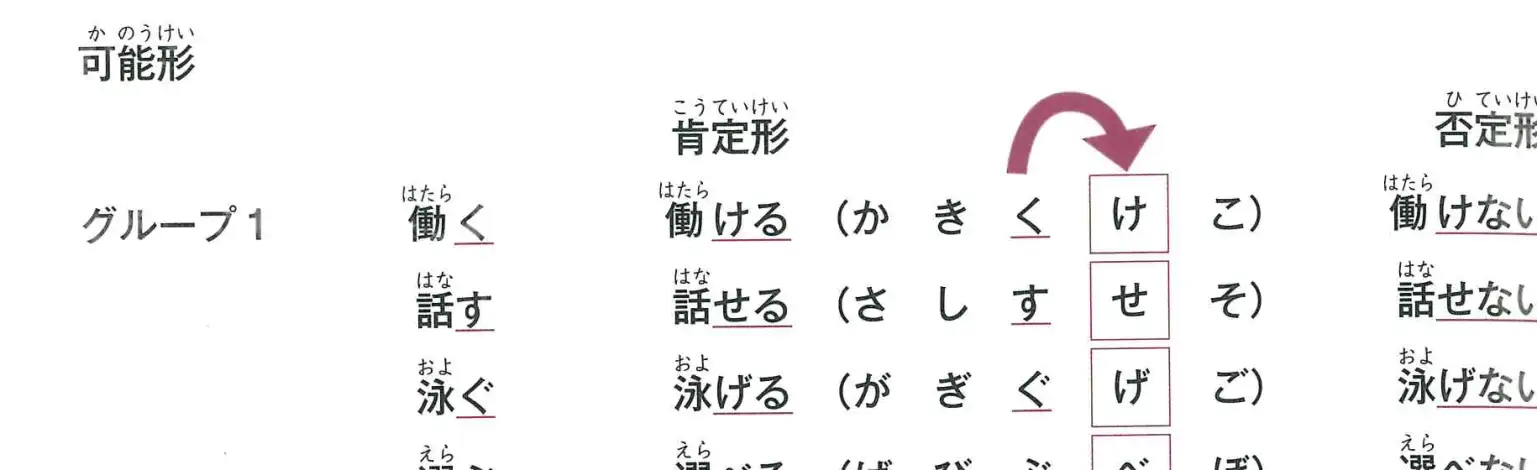
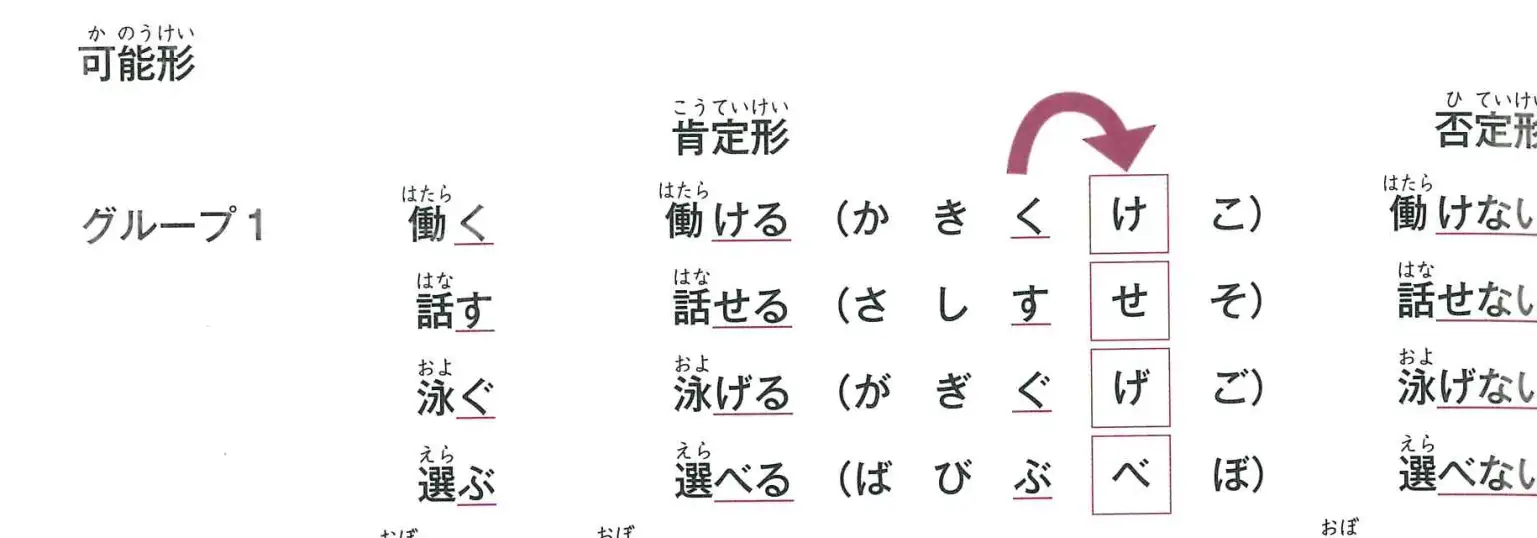
Fix 第17課 文型1 グループ1 textbook crop so the 選ぶ row is not clipped

diff --git a/blk.js b/blk.js
@@ -1,2 +1,2 @@
 // 文型各例句區塊的課本截圖（pages/blk/*.webp）：{文型: [[該區塊第一句的索引, [[檔名,寬,高,頁]...]], ...]}
-window.BLK={"1-1":[[0,[["blk/b1-1-0.webp",1264,176,24]]],[1,[["blk/b1-1-1.webp",424,89,24]]],[2,[["blk/b1-1-2.webp",506,90,24]]],[3,[["blk/b1-1-3.webp",549,90,24]]],[4,[["blk/b1-1-4.webp",676,90,24]]]],"1-2":[[0,[["blk/b1-2-0.webp",1372,466,25]]],[4,[["blk/b1-2-1.webp",1359,269,25]]],[6,[["blk/b1-2-2.webp",1361,328,25]]],[8,[["blk/b1-2-3.webp",1360,370,25]]]],"1-3":[[0,[["blk/b1-3-0.webp",1303,169,26]]],[1,[["blk/b1-3-1.webp",629,89,26]]],[2,[["blk/b1-3-2.webp",718,90,26]]],[3,[["blk/b1-3-3.webp",806,164,26]]]],"1-4":[[0,[["blk/b1-4-0.webp",1280,469,27]]],[4,[["blk/b1-4-1.webp",628,161,27]]],[6,[["blk/b1-4-2.webp",716,161,27]]],[8,[["blk/b1-4-3.webp",975,91,27]]],[9,[["blk/b1-4-4.webp",845,89,27]]]],"1-5":[[0,[["blk/b1-5-0.webp",1296,246,29]]],[2,[["blk/b1-5-1.webp",590,160,29]]],[4,[["blk/b1-5-2.webp",764,162,29]]],[6,[["blk/b1-5-3.webp",675,309,29]]]],"1-6":[[0,[["blk/b1-6-0.webp",1281,251,29]]],[2,[["blk/b1-6-1.webp",840,89,29]]],[3,[["blk/b1-6-2.webp",922,90,29]]],[4,[["blk/b1-6-3.webp",760,70,29]]]],"2-1":[[0,[["blk/b2-1-0.webp",1284,630,33]]],[2,[["blk/b2-1-1.webp",504,86,33]]],[3,[["blk/b2-1-2.webp",604,85,33]]],[4,[["blk/b2-1-3.webp",425,86,33]]],[5,[["blk/b2-1-4.webp",425,87,33]]],[6,[["blk/b2-1-5.webp",381,86,33]]],[7,[["blk/b2-1-6.webp",424,88,33]]],[8,[["blk/b2-1-7.webp",424,70,33]]],[9,[["blk/b2-1-8.webp",1119,352,33]]],[11,[["blk/b2-1-9.webp",1286,509,33]]]],"2-2":[[0,[["blk/b2-2-0.webp",1303,670,34]]],[3,[["blk/b2-2-0.webp",1303,670,34]]],[7,[["blk/b2-2-1.webp",798,162,34]]]],"2-3":[[0,[["blk/b2-3-0.webp",1294,569,34]]],[2,[["blk/b2-3-1.webp",417,86,34]]],[3,[["blk/b2-3-2.webp",423,88,34]]],[4,[["blk/b2-3-3.webp",908,398,34]]],[5,[["blk/b2-3-4.webp",1136,404,34]]]],"2-4":[[0,[["blk/b2-4-0.webp",1283,471,35]]],[2,[["blk/b2-4-1.webp",504,87,35]]],[3,[["blk/b2-4-2.webp",508,89,35]]],[4,[["blk/b2-4-3.webp",760,163,35]]]],"2-5":[[0,[["blk/b2-5-0.webp",1249,648,35]]],[4,[["blk/b2-5-1.webp",544,89,35]]],[5,[["blk/b2-5-2.webp",596,89,35]]],[6,[["blk/b2-5-3.webp",549,160,35]]],[8,[["blk/b2-5-4.webp",634,89,35]]],[9,[["blk/b2-5-5.webp",633,161,35]]]],"2-6":[[0,[["blk/b2-6-0.webp",1161,253,40]]],[2,[["blk/b2-6-1.webp",671,88,40]]],[3,[["blk/b2-6-2.webp",804,161,40]]],[5,[["blk/b2-6-3.webp",676,163,40]]],[7,[["blk/b2-6-rd1.webp",1301,919,40]]]],"3-1":[[0,[["blk/b3-1-0.webp",1302,465,42]]],[3,[["blk/b3-1-1.webp",1284,320,42]]],[5,[["blk/b3-1-2.webp",1275,444,43]]],[7,[["blk/b3-1-3.webp",1282,432,43]]]],"3-2":[[0,[["blk/b3-2-0.webp",1234,250,43]]],[2,[["blk/b3-2-1.webp",1060,159,43]]],[4,[["blk/b3-2-2.webp",955,244,43]]],[6,[["blk/b3-2-3.webp",1040,355,43]]]],"3-3":[[0,[["blk/b3-3-0.webp",1295,330,44]]],[3,[["blk/b3-3-1.webp",1250,522,44]]],[5,[["blk/b3-3-2.webp",1266,864,44]]],[7,[["blk/b3-3-3.webp",1285,914,44]]]],"3-4":[[0,[["blk/b3-4-0.webp",1279,167,45]]],[1,[["blk/b3-4-1.webp",1290,830,45]]],[5,[["blk/b3-4-2.webp",1292,708,45]]]],"4-1":[[0,[["blk/b4-1-0.webp",1296,1042,50]]],[2,[["blk/b4-1-1.webp",416,89,50]]],[3,[["blk/b4-1-2.webp",386,89,50]]],[4,[["blk/b4-1-3.webp",1245,378,50]]],[5,[["blk/b4-1-4.webp",824,546,50]]],[7,[["blk/b4-1-ra1.webp",1302,1142,51]]]],"4-2":[[0,[["blk/b4-2-0.webp",1187,335,51]]],[3,[["blk/b4-2-1.webp",926,161,51]]],[5,[["blk/b4-2-2.webp",967,160,51]]],[7,[["blk/b4-2-rb1.webp",1300,1686,52]]],[11,[["blk/b4-2-rd1.webp",1300,886,54]]]],"4-3":[[0,[["blk/b4-3-0.webp",1297,334,53]]],[3,[["blk/b4-3-1.webp",880,309,53]]]],"4-4":[[0,[["blk/b4-4-0.webp",1230,329,55]]],[3,[["blk/b4-4-1.webp",750,163,55]]],[5,[["blk/b4-4-2.webp",716,159,55]]],[7,[["blk/b4-4-3.webp",1036,163,56]]],[9,[["blk/b4-4-4.webp",1276,361,56]]],[10,[["blk/b4-4-5.webp",1274,361,56]]]],"4-5":[[0,[["blk/b4-5-0.webp",1285,168,56]]],[1,[["blk/b4-5-1.webp",1261,339,56]]],[3,[["blk/b4-5-2.webp",1284,316,56]]]],"4-6":[[0,[["blk/b4-6-0.webp",1301,252,56]]],[2,[["blk/b4-6-1.webp",797,159,56]]],[4,[["blk/b4-6-2.webp",886,144,56]]],[6,[["blk/b4-6-re1.webp",1301,1591,57]]]],"5-1":[[0,[["blk/b5-1-0.webp",1298,252,61]]],[2,[["blk/b5-1-1.webp",501,89,61]]],[3,[["blk/b5-1-2.webp",634,89,61]]],[4,[["blk/b5-1-3.webp",509,89,61]]],[5,[["blk/b5-1-4.webp",720,161,61]]],[6,[["blk/b5-1-5.webp",802,89,61]]],[7,[["blk/b5-1-ra1.webp",1300,1508,62]]]],"5-2":[[0,[["blk/b5-2-0.webp",1301,166,61]]],[1,[["blk/b5-2-1.webp",1094,87,61]]],[2,[["blk/b5-2-2.webp",1097,89,61]]]],"5-3":[[0,[["blk/b5-3-0.webp",1301,673,63]]],[6,[["blk/b5-3-1.webp",1273,363,63]]],[8,[["blk/b5-3-2.webp",1227,344,63]]],[10,[["blk/b5-3-3.webp",1136,455,63]]]],"5-4":[[0,[["blk/b5-4-0.webp",1291,255,66]]],[2,[["blk/b5-4-1.webp",1279,421,66]]],[4,[["blk/b5-4-2.webp",1289,571,66]]],[6,[["blk/b5-4-3.webp",1264,492,66]]],[8,[["blk/b5-4-rb1.webp",1301,1479,67]]]],"6-1":[[0,[["blk/b6-1-0.webp",1299,421,72]]],[4,[["blk/b6-1-1.webp",549,87,72]]],[5,[["blk/b6-1-2.webp",675,145,72]]],[7,[["blk/b6-1-3.webp",719,161,72]]],[9,[["blk/b6-1-ra1.webp",1301,651,72]]]],"6-2":[[0,[["blk/b6-2-0.webp",1298,166,73]]],[1,[["blk/b6-2-1.webp",713,160,73]]],[3,[["blk/b6-2-2.webp",885,160,73]]]],"6-3":[[0,[["blk/b6-3-0.webp",1290,168,75]]],[1,[["blk/b6-3-1.webp",1007,235,75]]],[4,[["blk/b6-3-2.webp",928,311,75]]],[7,[["blk/b6-3-3.webp",510,89,75]]],[8,[["blk/b6-3-rc1.webp",1300,834,75]]]],"6-4":[[0,[["blk/b6-4-0.webp",1292,250,76]]],[2,[["blk/b6-4-1.webp",940,236,76]]],[5,[["blk/b6-4-2.webp",718,219,76]]],[8,[["blk/b6-4-3.webp",927,161,76]]],[10,[["blk/b6-4-rd1.webp",1300,880,76]]]],"6-5":[[0,[["blk/b6-5-0.webp",1292,461,77]]],[1,[["blk/b6-5-1.webp",1176,160,77]]],[3,[["blk/b6-5-2.webp",926,231,77]]],[5,[["blk/b6-5-3.webp",968,160,77]]],[7,[["blk/b6-5-4.webp",1099,161,77]]],[9,[["blk/b6-5-5.webp",1180,161,77]]],[11,[["blk/b6-5-6.webp",1054,161,77]]]],"6-6":[[0,[["blk/b6-6-0.webp",1248,1264,81]]],[5,[["blk/b6-6-0.webp",1248,1264,81]]],[10,[["blk/b6-6-0.webp",1248,1264,81]]]],"6-7":[[0,[["blk/b6-7-0.webp",1194,170,81]]],[1,[["blk/b6-7-1.webp",922,166,81]]],[3,[["blk/b6-7-2.webp",1273,235,81]]],[6,[["blk/b6-7-3.webp",1135,963,82]]],[9,[["blk/b6-7-rf1.webp",1299,869,82]]]],"7-1":[[0,[["blk/b7-1-0.webp",1303,1066,85]]],[6,[["blk/b7-1-1.webp",712,87,85]]],[7,[["blk/b7-1-2.webp",716,164,85]]],[9,[["blk/b7-1-3.webp",675,89,85]]],[10,[["blk/b7-1-4.webp",1300,460,85]]],[11,[["blk/b7-1-5.webp",1271,332,86]]],[13,[["blk/b7-1-6.webp",718,89,86]]],[14,[["blk/b7-1-7.webp",809,89,86]]],[15,[["blk/b7-1-8.webp",738,87,86]]],[16,[["blk/b7-1-ra1.webp",1301,985,86]]],[22,[["blk/b7-1-rb1.webp",1300,768,87]]]],"7-2":[[0,[["blk/b7-2-0.webp",1294,166,87]]],[1,[["blk/b7-2-1.webp",1090,161,87]]],[3,[["blk/b7-2-2.webp",718,306,87]]]],"7-3":[[0,[["blk/b7-3-0.webp",1294,167,88]]],[1,[["blk/b7-3-1.webp",1292,90,88]]],[2,[["blk/b7-3-2.webp",1182,145,88]]],[4,[["blk/b7-3-3.webp",894,87,88]]],[5,[["blk/b7-3-4.webp",1097,87,88]]],[6,[["blk/b7-3-rc1.webp",1300,1204,88]]]],"7-4":[[0,[["blk/b7-4-0.webp",1298,572,90]]],[3,[["blk/b7-4-1.webp",1009,236,90]]],[6,[["blk/b7-4-2.webp",810,235,90]]],[9,[["blk/b7-4-3.webp",851,91,90]]],[10,[["blk/b7-4-4.webp",846,91,90]]]],"7-5":[[0,[["blk/b7-5-0.webp",1381,166,93]]],[1,[["blk/b7-5-1.webp",758,92,93]]],[2,[["blk/b7-5-2.webp",801,308,93]]]],"7-6":[[0,[["blk/b7-6-0.webp",1300,951,94]]],[4,[["blk/b7-6-0.webp",1300,951,94]]],[5,[["blk/b7-6-1.webp",1264,341,94]]],[6,[["blk/b7-6-2.webp",1269,336,94]]],[7,[["blk/b7-6-3.webp",846,90,94]]],[8,[["blk/b7-6-4.webp",1061,559,94]]]],"8-1":[[0,[["blk/b8-1-0.webp",1300,250,96]]],[2,[["blk/b8-1-1.webp",991,207,96]]],[5,[["blk/b8-1-2.webp",649,144,96]]],[7,[["blk/b8-1-3.webp",794,340,96]]],[12,[["blk/b8-1-4.webp",581,275,96]]]],"8-2":[[0,[["blk/b8-2-0.webp",1301,336,96]]],[3,[["blk/b8-2-1.webp",747,275,96]]],[7,[["blk/b8-2-ra1.webp",1299,1910,98]]]],"8-3":[[0,[["blk/b8-3-0.webp",1216,241,97]]],[2,[["blk/b8-3-1.webp",576,128,97]]],[4,[["blk/b8-3-2.webp",849,144,97]]]],"8-4":[[0,[["blk/b8-4-0.webp",1375,802,97]]],[2,[["blk/b8-4-1.webp",1380,517,97]]],[4,[["blk/b8-4-2.webp",1380,517,97]]]],"8-5":[[0,[["blk/b8-5-0.webp",1298,271,100]]],[2,[["blk/b8-5-1.webp",1128,90,100]]],[3,[["blk/b8-5-2.webp",1289,241,100]]],[4,[["blk/b8-5-3.webp",1289,254,100]]],[5,[["blk/b8-5-4.webp",919,80,100]]],[6,[["blk/b8-5-5.webp",864,209,100]]],[9,[["blk/b8-5-rb1.webp",1299,1044,100]]]],"8-6":[[0,[["blk/b8-6-0.webp",1286,485,101]]],[1,[["blk/b8-6-1.webp",981,146,101]]],[3,[["blk/b8-6-2.webp",1188,145,101]]],[5,[["blk/b8-6-3.webp",816,144,101]]],[7,[["blk/b8-6-4.webp",816,144,101]]],[9,[["blk/b8-6-5.webp",984,143,101]]]],"8-7":[[0,[["blk/b8-7-0.webp",1300,308,104]]],[2,[["blk/b8-7-1.webp",1287,80,104]]],[3,[["blk/b8-7-2.webp",514,80,104]]],[4,[["blk/b8-7-3.webp",952,274,104]]],[7,[["blk/b8-7-4.webp",1289,296,104]]],[10,[["blk/b8-7-5.webp",751,145,104]]],[12,[["blk/b8-7-rd1.webp",1300,524,104],["blk/b8-7-rd2.webp",1125,409,105]]]],"8-8":[[0,[["blk/b8-8-0.webp",1330,465,105]]],[1,[["blk/b8-8-1.webp",1380,384,105]]],[5,[["blk/b8-8-2.webp",944,275,105]]],[9,[["blk/b8-8-3.webp",1091,145,105]]],[11,[["blk/b8-8-4.webp",1091,146,105]]],[13,[["blk/b8-8-5.webp",936,146,105]]]],"9-1":[[0,[["blk/b9-1-0.webp",1179,1895,107]]],[5,[["blk/b9-1-0.webp",1179,1895,107]]],[6,[["blk/b9-1-0.webp",1179,1895,107]]]],"9-2":[[0,[["blk/b9-2-0.webp",1296,166,108]]],[1,[["blk/b9-2-1.webp",793,81,108]]],[2,[["blk/b9-2-2.webp",965,144,108]]],[4,[["blk/b9-2-3.webp",885,81,108]]],[5,[["blk/b9-2-4.webp",785,144,108]]],[7,[["blk/b9-2-ra1.webp",1299,1246,108]]]],"9-3":[[0,[["blk/b9-3-0.webp",1329,164,109]]],[1,[["blk/b9-3-1.webp",845,84,109]]],[2,[["blk/b9-3-2.webp",1372,300,109]]],[3,[["blk/b9-3-3.webp",1372,303,109]]],[4,[["blk/b9-3-rb1.webp",1379,1350,109]]]],"9-4":[[0,[["blk/b9-4-0.webp",1300,166,110]]],[1,[["blk/b9-4-1.webp",746,210,110]]],[3,[["blk/b9-4-2.webp",918,145,110]]],[5,[["blk/b9-4-3.webp",930,254,110]]],[7,[["blk/b9-4-4.webp",1291,343,110]]],[9,[["blk/b9-4-rc1.webp",1299,1104,110]]]],"9-5":[[0,[["blk/b9-5-0.webp",1303,389,112]]],[3,[["blk/b9-5-1.webp",781,81,112]]],[4,[["blk/b9-5-2.webp",829,80,112]]],[5,[["blk/b9-5-3.webp",852,79,112]]]],"9-6":[[0,[["blk/b9-6-0.webp",1291,164,113]]],[1,[["blk/b9-6-1.webp",958,81,113]]],[2,[["blk/b9-6-2.webp",986,81,113]]],[3,[["blk/b9-6-3.webp",681,144,113]]],[5,[["blk/b9-6-re1.webp",1368,1430,113]]],[6,[["blk/b9-6-rg1.webp",1381,1239,115]]]],"9-7":[[0,[["blk/b9-7-0.webp",1380,165,115]]],[1,[["blk/b9-7-1.webp",1032,281,115]]],[3,[["blk/b9-7-2.webp",1375,276,115]]]],"9-8":[[0,[["blk/b9-8-0.webp",1301,164,118]]],[1,[["blk/b9-8-1.webp",1040,211,118]]],[2,[["blk/b9-8-2.webp",964,145,118]]],[4,[["blk/b9-8-3.webp",947,82,118]]]],"9-9":[[0,[["blk/b9-9-0.webp",1301,994,118]]],[9,[["blk/b9-9-1.webp",644,145,118]]],[11,[["blk/b9-9-2.webp",1179,331,119]]],[13,[["blk/b9-9-3.webp",1179,301,119]]],[15,[["blk/b9-9-ri1.webp",1300,834,119]]]],"10-1":[[0,[["blk/b10-1-0.webp",1384,945,121]]],[6,[["blk/b10-1-1.webp",708,144,121]]],[8,[["blk/b10-1-2.webp",1372,746,121]]],[11,[["blk/b10-1-ra1.webp",1306,1258,122]]]],"10-2":[[0,[["blk/b10-2-0.webp",1298,162,125]]],[1,[["blk/b10-2-1.webp",730,127,125]]],[3,[["blk/b10-2-2.webp",1011,144,125]]],[5,[["blk/b10-2-rc1.webp",1378,1280,125]]]],"10-3":[[0,[["blk/b10-3-0.webp",1301,323,126]]],[2,[["blk/b10-3-1.webp",1212,243,126]]],[3,[["blk/b10-3-2.webp",736,107,126]]],[4,[["blk/b10-3-3.webp",1235,276,126]]],[6,[["blk/b10-3-4.webp",1234,306,126]]],[8,[["blk/b10-3-rd1.webp",1299,800,126]]]],"11-1":[[0,[["blk/b11-1-0.webp",1301,164,130]]],[1,[["blk/b11-1-1.webp",509,80,130]]],[2,[["blk/b11-1-2.webp",547,80,130]]],[3,[["blk/b11-1-3.webp",412,80,130]]],[4,[["blk/b11-1-4.webp",609,81,130]]],[5,[["blk/b11-1-5.webp",1109,145,130]]],[7,[["blk/b11-1-6.webp",854,142,130]]],[9,[["blk/b11-1-7.webp",471,83,130]]],[10,[["blk/b11-1-ra1.webp",1300,812,130]]]],"11-2":[[0,[["blk/b11-2-0.webp",1228,166,131]]],[1,[["blk/b11-2-1.webp",856,81,131]]],[2,[["blk/b11-2-2.webp",1032,211,131]]]],"11-3":[[0,[["blk/b11-3-0.webp",1326,304,131]]],[2,[["blk/b11-3-1.webp",762,81,131]]],[3,[["blk/b11-3-2.webp",896,270,131]]],[7,[["blk/b11-3-3.webp",772,84,131]]]],"11-4":[[0,[["blk/b11-4-0.webp",1396,166,133]]],[1,[["blk/b11-4-1.webp",806,81,133]]],[2,[["blk/b11-4-2.webp",693,145,133]]],[4,[["blk/b11-4-3.webp",699,81,133]]],[5,[["blk/b11-4-4.webp",659,145,133]]],[7,[["blk/b11-4-5.webp",525,82,133]]]],"11-5":[[0,[["blk/b11-5-0.webp",1356,163,133]]],[1,[["blk/b11-5-1.webp",828,145,133]]],[3,[["blk/b11-5-2.webp",759,210,133]]],[6,[["blk/b11-5-3.webp",940,80,133]]],[7,[["blk/b11-5-4.webp",704,84,133]]]],"11-6":[[0,[["blk/b11-6-0.webp",994,302,135]]],[2,[["blk/b11-6-1.webp",680,81,135]]],[3,[["blk/b11-6-2.webp",660,80,135]]],[4,[["blk/b11-6-3.webp",1020,271,135]]],[6,[["blk/b11-6-4.webp",719,84,135]]]],"11-7":[[0,[["blk/b11-7-0.webp",1304,334,136]]],[3,[["blk/b11-7-1.webp",590,144,136]]],[5,[["blk/b11-7-2.webp",682,145,136]]],[7,[["blk/b11-7-3.webp",615,144,136]]],[9,[["blk/b11-7-rc1.webp",1301,981,136]]]],"12-1":[[0,[["blk/b12-1-0.webp",1296,167,140]]],[1,[["blk/b12-1-1.webp",713,144,140]]],[3,[["blk/b12-1-2.webp",852,84,140]]],[4,[["blk/b12-1-3.webp",1285,414,140]]]],"12-2":[[0,[["blk/b12-2-0.webp",1288,460,140]]],[3,[["blk/b12-2-1.webp",447,81,140]]],[4,[["blk/b12-2-2.webp",480,79,140]]],[5,[["blk/b12-2-3.webp",1285,546,140]]]],"12-3":[[0,[["blk/b12-3-0.webp",1386,1145,141]]],[4,[["blk/b12-3-0.webp",1386,1145,141]]],[8,[["blk/b12-3-0.webp",1386,1145,141]]],[10,[["blk/b12-3-1.webp",1292,935,141]]]],"12-4":[[0,[["blk/b12-4-0.webp",1297,439,144]]],[2,[["blk/b12-4-1.webp",1114,373,144]]],[4,[["blk/b12-4-2.webp",1119,373,144]]],[6,[["blk/b12-4-3.webp",581,145,144]]],[7,[["blk/b12-4-4.webp",1194,229,144]]],[8,[["blk/b12-4-rb1.webp",1301,905,144]]],[9,[["blk/b12-4-rc1.webp",1301,924,145]]]],"12-5":[[0,[["blk/b12-5-0.webp",1000,166,145]]],[1,[["blk/b12-5-1.webp",747,80,145]]],[2,[["blk/b12-5-2.webp",716,81,145]]],[3,[["blk/b12-5-3.webp",1280,544,145]]]],"13-1":[[0,[["blk/b13-1-0.webp",1512,496,149]]],[1,[["blk/b13-1-1.webp",1512,235,149]]],[3,[["blk/b13-1-3.webp",1512,185,149]]],[5,[["blk/b13-1-5.webp",1512,84,149]]],[6,[["blk/b13-1-6.webp",1512,882,149]]]],"13-2":[[0,[["blk/b13-2-0.webp",1537,487,150]]],[3,[["blk/b13-2-3_0.webp",1537,218,150],["blk/b13-2-3_1.webp",1537,319,150]]],[7,[["blk/b13-2-7_0.webp",1537,218,150],["blk/b13-2-7_1.webp",1537,185,150]]],[9,[["blk/b13-2-9.webp",1537,260,150]]]],"13-3":[[0,[["blk/b13-3-0.webp",1512,134,151]]],[1,[["blk/b13-3-1.webp",1512,176,151]]],[3,[["blk/b13-3-3.webp",1512,151,151]]],[5,[["blk/b13-3-5.webp",1512,151,151]]],[7,[["blk/b13-3-7.webp",1512,160,151]]],[9,[["blk/b13-3-9.webp",1512,76,151]]],[10,[["blk/b13-3-10.webp",1512,151,151]]],[12,[["blk/b13-3-12.webp",1512,613,151]]]],"13-4":[[0,[["blk/b13-4-0.webp",1537,403,152]]],[2,[["blk/b13-4-2.webp",1537,235,152]]],[5,[["blk/b13-4-5.webp",1537,227,152]]],[8,[["blk/b13-4-8.webp",1537,328,152]]],[12,[["blk/b13-4-12.webp",1537,739,152]]]],"13-5":[[0,[["blk/b13-5-0.webp",1537,445,154]]],[2,[["blk/b13-5-2.webp",1537,101,154]]],[3,[["blk/b13-5-3.webp",1537,76,154]]],[4,[["blk/b13-5-4.webp",1537,84,154]]],[5,[["blk/b13-5-5.webp",1537,76,154]]],[6,[["blk/b13-5-6.webp",1537,134,154]]]],"13-6":[[0,[["blk/b13-6-0.webp",1537,487,154]]],[2,[["blk/b13-6-2.webp",1537,92,154]]],[3,[["blk/b13-6-3.webp",1537,160,154]]],[5,[["blk/b13-6-5.webp",1537,336,154]]],[9,[["blk/b13-6-9.webp",1512,1117,155]]]],"14-1":[[0,[["blk/b14-1-0.webp",1512,714,159]]],[4,[["blk/b14-1-4.webp",1512,193,159]]],[6,[["blk/b14-1-6.webp",1512,193,159]]],[8,[["blk/b14-1-8.webp",1512,302,159]]],[10,[["blk/b14-1-10.webp",1512,302,159]]],[12,[["blk/b14-1-12.webp",1512,185,159]]]],"14-2":[[0,[["blk/b14-2-0.webp",1537,420,160]]],[1,[["blk/b14-2-1.webp",1537,101,160]]],[2,[["blk/b14-2-2.webp",1537,176,160]]],[4,[["blk/b14-2-4.webp",1537,202,160]]],[7,[["blk/b14-2-7.webp",1537,143,160]]],[9,[["blk/b14-2-9.webp",1537,84,160]]],[10,[["blk/b14-2-10.webp",1537,101,160]]],[11,[["blk/b14-2-11.webp",1537,722,160]]],[13,[["blk/b14-2-13.webp",1512,622,161]]]],"14-3":[[0,[["blk/b14-3-0.webp",1537,386,162]]],[1,[["blk/b14-3-1.webp",1537,269,162]]],[3,[["blk/b14-3-3.webp",1537,168,162]]],[5,[["blk/b14-3-5.webp",1537,823,162]]]],"14-4":[[0,[["blk/b14-4-0.webp",1537,151,164]]],[1,[["blk/b14-4-1.webp",1537,210,164]]],[3,[["blk/b14-4-3.webp",1537,151,164]]],[5,[["blk/b14-4-5.webp",1537,302,164]]],[6,[["blk/b14-4-6.webp",1537,588,164]]],[8,[["blk/b14-4-8.webp",1512,613,165]]]],"15-1":[[0,[["blk/b15-1-0.webp",1537,302,166]]],[2,[["blk/b15-1-2.webp",1537,286,166]]],[4,[["blk/b15-1-4.webp",1512,202,167]]],[6,[["blk/b15-1-6.webp",1512,437,167]]],[10,[["blk/b15-1-10.webp",1512,252,167]]]],"15-2":[[0,[["blk/b15-2-0.webp",1512,252,167]]],[2,[["blk/b15-2-2.webp",1512,185,167]]],[4,[["blk/b15-2-4.webp",1512,235,167]]],[6,[["blk/b15-2-6.webp",1512,185,167]]],[8,[["blk/b15-2-8.webp",1512,353,167]]],[10,[["blk/b15-2-10.webp",1537,1193,168]]]],"15-3":[[0,[["blk/b15-3-0.webp",1537,302,170]]],[2,[["blk/b15-3-2.webp",1537,168,170]]],[4,[["blk/b15-3-4.webp",1537,319,170]]]],"15-4":[[0,[["blk/b15-4-0.webp",1512,235,171]]],[1,[["blk/b15-4-1.webp",1512,168,171]]],[3,[["blk/b15-4-3.webp",1512,160,171]]],[5,[["blk/b15-4-5.webp",1512,118,171]]]],"15-5":[[0,[["blk/b15-5-0.webp",1537,302,172]]],[2,[["blk/b15-5-2.webp",1537,185,172]]],[4,[["blk/b15-5-4.webp",1537,202,172]]],[6,[["blk/b15-5-6.webp",1537,168,172]]],[8,[["blk/b15-5-8.webp",1537,269,172]]],[11,[["blk/b15-5-11.webp",1537,168,172]]],[13,[["blk/b15-5-13.webp",1537,168,172]]],[14,[["blk/b15-5-14.webp",1512,1193,173]]]],"15-6":[[0,[["blk/b15-6-0.webp",1537,218,176]]],[1,[["blk/b15-6-1.webp",1537,101,176]]],[2,[["blk/b15-6-2.webp",1537,252,176]]],[4,[["blk/b15-6-4.webp",1512,454,177]]],[7,[["blk/b15-6-7.webp",1512,529,177]]]],"15-7":[[0,[["blk/b15-7-0.webp",1512,202,177]]],[1,[["blk/b15-7-1.webp",1512,218,177]]],[2,[["blk/b15-7-2.webp",1512,168,177]]],[4,[["blk/b15-7-4.webp",1512,168,177]]]],"15-8":[[0,[["blk/b15-8-0.webp",1537,252,178]]],[1,[["blk/b15-8-1.webp",1537,193,178]]],[2,[["blk/b15-8-2.webp",1537,168,178]]],[4,[["blk/b15-8-4.webp",1537,437,178]]],[5,[["blk/b15-8-5.webp",1537,1075,178]]]],"16-1":[[0,[["blk/b16-1-0.webp",1537,538,180]]],[1,[["blk/b16-1-1.webp",1537,277,180]]],[3,[["blk/b16-1-3.webp",1537,269,180]]],[5,[["blk/b16-1-5.webp",1537,286,180]]],[7,[["blk/b16-1-7.webp",1537,269,180]]],[9,[["blk/b16-1-9.webp",1537,260,180]]],[11,[["blk/b16-1-11.webp",1537,353,180]]],[14,[["blk/b16-1-14.webp",1512,773,181]]],[16,[["blk/b16-1-16.webp",1537,689,182]]]],"16-2":[[0,[["blk/b16-2-0.webp",1537,403,182]]],[3,[["blk/b16-2-3.webp",1537,286,182]]],[5,[["blk/b16-2-5.webp",1512,235,183]]],[7,[["blk/b16-2-7.webp",1512,454,183]]],[11,[["blk/b16-2-11.webp",1512,655,183]]]],"16-3":[[0,[["blk/b16-3-0.webp",1512,588,185]]],[1,[["blk/b16-3-1.webp",1512,151,185]]],[2,[["blk/b16-3-2.webp",1512,168,185]]],[4,[["blk/b16-3-4.webp",1512,588,185]]],[10,[["blk/b16-3-10.webp",1512,202,185]]],[12,[["blk/b16-3-12.webp",1512,554,185]]]],"16-4":[[0,[["blk/b16-4-0.webp",1537,269,186]]],[1,[["blk/b16-4-1.webp",1537,252,186]]],[3,[["blk/b16-4-3.webp",1537,319,186]]],[4,[["blk/b16-4-4.webp",1537,151,186]]],[5,[["blk/b16-4-5.webp",1537,319,186]]]],"16-5":[[0,[["blk/b16-5-0.webp",1537,252,186]]],[1,[["blk/b16-5-1.webp",1537,185,186]]],[3,[["blk/b16-5-3.webp",1537,302,186]]],[6,[["blk/b16-5-6.webp",1537,269,186]]]],"16-6":[[0,[["blk/b16-6-0.webp",1537,504,188]]],[1,[["blk/b16-6-1.webp",1537,101,188]]],[2,[["blk/b16-6-2.webp",1537,151,188]]],[4,[["blk/b16-6-4.webp",1537,286,188]]],[8,[["blk/b16-6-8.webp",1537,168,188]]],[10,[["blk/b16-6-10.webp",1537,168,188]]]],"16-7":[[0,[["blk/b16-7-0.webp",1537,353,188]]],[2,[["blk/b16-7-2.webp",1537,151,188]]],[3,[["blk/b16-7-3.webp",1537,202,188]]],[4,[["blk/b16-7-4.webp",1537,235,188]]]],"16-a":[[0,[["blk/b16-a-0.webp",1512,2386,189]]]],"16-b":[[0,[["blk/b16-b-0.webp",1537,2386,190]]]],"16-c":[[0,[["blk/b16-c-0.webp",1512,2386,191]]]],"17-1":[[0,[["blk/b17-1-0.webp",1537,235,194]]],[1,[["blk/b17-1-1.webp",1537,470,194]]],[5,[["blk/b17-1-5.webp",1537,202,194]]],[7,[["blk/b17-1-7.webp",1537,202,194]]],[9,[["blk/b17-1-9.webp",1537,134,194]]],[10,[["blk/b17-1-10.webp",1537,168,194]]],[12,[["blk/b17-1-12.webp",1537,202,194]]],[14,[["blk/b17-1-14.webp",1537,134,194]]],[16,[["blk/b17-1-16.webp",1537,202,194]]],[18,[["blk/b17-1-18.webp",1512,336,195]]],[20,[["blk/b17-1-20.webp",1512,101,195]]],[21,[["blk/b17-1-21.webp",1512,202,195]]],[23,[["blk/b17-1-23.webp",1512,370,195]]]],"17-2":[[0,[["blk/b17-2-0.webp",1537,202,196]]],[1,[["blk/b17-2-1.webp",1537,302,196]]],[2,[["blk/b17-2-2.webp",1537,470,196]]],[3,[["blk/b17-2-3.webp",1537,1008,196]]],[4,[["blk/b17-2-4.webp",1537,269,196]]],[6,[["blk/b17-2-6.webp",1512,571,197]]],[7,[["blk/b17-2-7.webp",1512,739,197]]],[8,[["blk/b17-2-8.webp",1512,235,197]]]],"17-3":[[0,[["blk/b17-3-0.webp",1512,403,199]]],[3,[["blk/b17-3-3.webp",1512,202,199]]],[5,[["blk/b17-3-5.webp",1512,168,199]]],[7,[["blk/b17-3-7.webp",1512,134,199]]],[8,[["blk/b17-3-8.webp",1512,437,199]]],[11,[["blk/b17-3-11.webp",1537,1142,200]]]],"17-4":[[0,[["blk/b17-4-0.webp",1537,235,200]]],[1,[["blk/b17-4-1.webp",1537,302,200]]],[2,[["blk/b17-4-2.webp",1537,202,200]]],[4,[["blk/b17-4-4.webp",1537,84,200]]],[5,[["blk/b17-4-5.webp",1537,336,200]]]],"17-5":[[0,[["blk/b17-5-0.webp",1537,302,202]]],[2,[["blk/b17-5-2.webp",1537,202,202]]],[4,[["blk/b17-5-4.webp",1537,134,202]]],[6,[["blk/b17-5-6.webp",1537,168,202]]],[8,[["blk/b17-5-8.webp",1537,269,202]]],[11,[["blk/b17-5-11.webp",1537,235,202]]],[13,[["blk/b17-5-13.webp",1537,403,202]]],[15,[["blk/b17-5-15.webp",1512,336,203]]]],"17-6":[[0,[["blk/b17-6-0.webp",1512,302,203]]],[2,[["blk/b17-6-2.webp",1512,202,203]]],[4,[["blk/b17-6-4.webp",1512,101,203]]],[5,[["blk/b17-6-5.webp",1512,302,203]]],[6,[["blk/b17-6-6.webp",1512,403,203]]]]};
+window.BLK={"1-1":[[0,[["blk/b1-1-0.webp",1264,176,24]]],[1,[["blk/b1-1-1.webp",424,89,24]]],[2,[["blk/b1-1-2.webp",506,90,24]]],[3,[["blk/b1-1-3.webp",549,90,24]]],[4,[["blk/b1-1-4.webp",676,90,24]]]],"1-2":[[0,[["blk/b1-2-0.webp",1372,466,25]]],[4,[["blk/b1-2-1.webp",1359,269,25]]],[6,[["blk/b1-2-2.webp",1361,328,25]]],[8,[["blk/b1-2-3.webp",1360,370,25]]]],"1-3":[[0,[["blk/b1-3-0.webp",1303,169,26]]],[1,[["blk/b1-3-1.webp",629,89,26]]],[2,[["blk/b1-3-2.webp",718,90,26]]],[3,[["blk/b1-3-3.webp",806,164,26]]]],"1-4":[[0,[["blk/b1-4-0.webp",1280,469,27]]],[4,[["blk/b1-4-1.webp",628,161,27]]],[6,[["blk/b1-4-2.webp",716,161,27]]],[8,[["blk/b1-4-3.webp",975,91,27]]],[9,[["blk/b1-4-4.webp",845,89,27]]]],"1-5":[[0,[["blk/b1-5-0.webp",1296,246,29]]],[2,[["blk/b1-5-1.webp",590,160,29]]],[4,[["blk/b1-5-2.webp",764,162,29]]],[6,[["blk/b1-5-3.webp",675,309,29]]]],"1-6":[[0,[["blk/b1-6-0.webp",1281,251,29]]],[2,[["blk/b1-6-1.webp",840,89,29]]],[3,[["blk/b1-6-2.webp",922,90,29]]],[4,[["blk/b1-6-3.webp",760,70,29]]]],"2-1":[[0,[["blk/b2-1-0.webp",1284,630,33]]],[2,[["blk/b2-1-1.webp",504,86,33]]],[3,[["blk/b2-1-2.webp",604,85,33]]],[4,[["blk/b2-1-3.webp",425,86,33]]],[5,[["blk/b2-1-4.webp",425,87,33]]],[6,[["blk/b2-1-5.webp",381,86,33]]],[7,[["blk/b2-1-6.webp",424,88,33]]],[8,[["blk/b2-1-7.webp",424,70,33]]],[9,[["blk/b2-1-8.webp",1119,352,33]]],[11,[["blk/b2-1-9.webp",1286,509,33]]]],"2-2":[[0,[["blk/b2-2-0.webp",1303,670,34]]],[3,[["blk/b2-2-0.webp",1303,670,34]]],[7,[["blk/b2-2-1.webp",798,162,34]]]],"2-3":[[0,[["blk/b2-3-0.webp",1294,569,34]]],[2,[["blk/b2-3-1.webp",417,86,34]]],[3,[["blk/b2-3-2.webp",423,88,34]]],[4,[["blk/b2-3-3.webp",908,398,34]]],[5,[["blk/b2-3-4.webp",1136,404,34]]]],"2-4":[[0,[["blk/b2-4-0.webp",1283,471,35]]],[2,[["blk/b2-4-1.webp",504,87,35]]],[3,[["blk/b2-4-2.webp",508,89,35]]],[4,[["blk/b2-4-3.webp",760,163,35]]]],"2-5":[[0,[["blk/b2-5-0.webp",1249,648,35]]],[4,[["blk/b2-5-1.webp",544,89,35]]],[5,[["blk/b2-5-2.webp",596,89,35]]],[6,[["blk/b2-5-3.webp",549,160,35]]],[8,[["blk/b2-5-4.webp",634,89,35]]],[9,[["blk/b2-5-5.webp",633,161,35]]]],"2-6":[[0,[["blk/b2-6-0.webp",1161,253,40]]],[2,[["blk/b2-6-1.webp",671,88,40]]],[3,[["blk/b2-6-2.webp",804,161,40]]],[5,[["blk/b2-6-3.webp",676,163,40]]],[7,[["blk/b2-6-rd1.webp",1301,919,40]]]],"3-1":[[0,[["blk/b3-1-0.webp",1302,465,42]]],[3,[["blk/b3-1-1.webp",1284,320,42]]],[5,[["blk/b3-1-2.webp",1275,444,43]]],[7,[["blk/b3-1-3.webp",1282,432,43]]]],"3-2":[[0,[["blk/b3-2-0.webp",1234,250,43]]],[2,[["blk/b3-2-1.webp",1060,159,43]]],[4,[["blk/b3-2-2.webp",955,244,43]]],[6,[["blk/b3-2-3.webp",1040,355,43]]]],"3-3":[[0,[["blk/b3-3-0.webp",1295,330,44]]],[3,[["blk/b3-3-1.webp",1250,522,44]]],[5,[["blk/b3-3-2.webp",1266,864,44]]],[7,[["blk/b3-3-3.webp",1285,914,44]]]],"3-4":[[0,[["blk/b3-4-0.webp",1279,167,45]]],[1,[["blk/b3-4-1.webp",1290,830,45]]],[5,[["blk/b3-4-2.webp",1292,708,45]]]],"4-1":[[0,[["blk/b4-1-0.webp",1296,1042,50]]],[2,[["blk/b4-1-1.webp",416,89,50]]],[3,[["blk/b4-1-2.webp",386,89,50]]],[4,[["blk/b4-1-3.webp",1245,378,50]]],[5,[["blk/b4-1-4.webp",824,546,50]]],[7,[["blk/b4-1-ra1.webp",1302,1142,51]]]],"4-2":[[0,[["blk/b4-2-0.webp",1187,335,51]]],[3,[["blk/b4-2-1.webp",926,161,51]]],[5,[["blk/b4-2-2.webp",967,160,51]]],[7,[["blk/b4-2-rb1.webp",1300,1686,52]]],[11,[["blk/b4-2-rd1.webp",1300,886,54]]]],"4-3":[[0,[["blk/b4-3-0.webp",1297,334,53]]],[3,[["blk/b4-3-1.webp",880,309,53]]]],"4-4":[[0,[["blk/b4-4-0.webp",1230,329,55]]],[3,[["blk/b4-4-1.webp",750,163,55]]],[5,[["blk/b4-4-2.webp",716,159,55]]],[7,[["blk/b4-4-3.webp",1036,163,56]]],[9,[["blk/b4-4-4.webp",1276,361,56]]],[10,[["blk/b4-4-5.webp",1274,361,56]]]],"4-5":[[0,[["blk/b4-5-0.webp",1285,168,56]]],[1,[["blk/b4-5-1.webp",1261,339,56]]],[3,[["blk/b4-5-2.webp",1284,316,56]]]],"4-6":[[0,[["blk/b4-6-0.webp",1301,252,56]]],[2,[["blk/b4-6-1.webp",797,159,56]]],[4,[["blk/b4-6-2.webp",886,144,56]]],[6,[["blk/b4-6-re1.webp",1301,1591,57]]]],"5-1":[[0,[["blk/b5-1-0.webp",1298,252,61]]],[2,[["blk/b5-1-1.webp",501,89,61]]],[3,[["blk/b5-1-2.webp",634,89,61]]],[4,[["blk/b5-1-3.webp",509,89,61]]],[5,[["blk/b5-1-4.webp",720,161,61]]],[6,[["blk/b5-1-5.webp",802,89,61]]],[7,[["blk/b5-1-ra1.webp",1300,1508,62]]]],"5-2":[[0,[["blk/b5-2-0.webp",1301,166,61]]],[1,[["blk/b5-2-1.webp",1094,87,61]]],[2,[["blk/b5-2-2.webp",1097,89,61]]]],"5-3":[[0,[["blk/b5-3-0.webp",1301,673,63]]],[6,[["blk/b5-3-1.webp",1273,363,63]]],[8,[["blk/b5-3-2.webp",1227,344,63]]],[10,[["blk/b5-3-3.webp",1136,455,63]]]],"5-4":[[0,[["blk/b5-4-0.webp",1291,255,66]]],[2,[["blk/b5-4-1.webp",1279,421,66]]],[4,[["blk/b5-4-2.webp",1289,571,66]]],[6,[["blk/b5-4-3.webp",1264,492,66]]],[8,[["blk/b5-4-rb1.webp",1301,1479,67]]]],"6-1":[[0,[["blk/b6-1-0.webp",1299,421,72]]],[4,[["blk/b6-1-1.webp",549,87,72]]],[5,[["blk/b6-1-2.webp",675,145,72]]],[7,[["blk/b6-1-3.webp",719,161,72]]],[9,[["blk/b6-1-ra1.webp",1301,651,72]]]],"6-2":[[0,[["blk/b6-2-0.webp",1298,166,73]]],[1,[["blk/b6-2-1.webp",713,160,73]]],[3,[["blk/b6-2-2.webp",885,160,73]]]],"6-3":[[0,[["blk/b6-3-0.webp",1290,168,75]]],[1,[["blk/b6-3-1.webp",1007,235,75]]],[4,[["blk/b6-3-2.webp",928,311,75]]],[7,[["blk/b6-3-3.webp",510,89,75]]],[8,[["blk/b6-3-rc1.webp",1300,834,75]]]],"6-4":[[0,[["blk/b6-4-0.webp",1292,250,76]]],[2,[["blk/b6-4-1.webp",940,236,76]]],[5,[["blk/b6-4-2.webp",718,219,76]]],[8,[["blk/b6-4-3.webp",927,161,76]]],[10,[["blk/b6-4-rd1.webp",1300,880,76]]]],"6-5":[[0,[["blk/b6-5-0.webp",1292,461,77]]],[1,[["blk/b6-5-1.webp",1176,160,77]]],[3,[["blk/b6-5-2.webp",926,231,77]]],[5,[["blk/b6-5-3.webp",968,160,77]]],[7,[["blk/b6-5-4.webp",1099,161,77]]],[9,[["blk/b6-5-5.webp",1180,161,77]]],[11,[["blk/b6-5-6.webp",1054,161,77]]]],"6-6":[[0,[["blk/b6-6-0.webp",1248,1264,81]]],[5,[["blk/b6-6-0.webp",1248,1264,81]]],[10,[["blk/b6-6-0.webp",1248,1264,81]]]],"6-7":[[0,[["blk/b6-7-0.webp",1194,170,81]]],[1,[["blk/b6-7-1.webp",922,166,81]]],[3,[["blk/b6-7-2.webp",1273,235,81]]],[6,[["blk/b6-7-3.webp",1135,963,82]]],[9,[["blk/b6-7-rf1.webp",1299,869,82]]]],"7-1":[[0,[["blk/b7-1-0.webp",1303,1066,85]]],[6,[["blk/b7-1-1.webp",712,87,85]]],[7,[["blk/b7-1-2.webp",716,164,85]]],[9,[["blk/b7-1-3.webp",675,89,85]]],[10,[["blk/b7-1-4.webp",1300,460,85]]],[11,[["blk/b7-1-5.webp",1271,332,86]]],[13,[["blk/b7-1-6.webp",718,89,86]]],[14,[["blk/b7-1-7.webp",809,89,86]]],[15,[["blk/b7-1-8.webp",738,87,86]]],[16,[["blk/b7-1-ra1.webp",1301,985,86]]],[22,[["blk/b7-1-rb1.webp",1300,768,87]]]],"7-2":[[0,[["blk/b7-2-0.webp",1294,166,87]]],[1,[["blk/b7-2-1.webp",1090,161,87]]],[3,[["blk/b7-2-2.webp",718,306,87]]]],"7-3":[[0,[["blk/b7-3-0.webp",1294,167,88]]],[1,[["blk/b7-3-1.webp",1292,90,88]]],[2,[["blk/b7-3-2.webp",1182,145,88]]],[4,[["blk/b7-3-3.webp",894,87,88]]],[5,[["blk/b7-3-4.webp",1097,87,88]]],[6,[["blk/b7-3-rc1.webp",1300,1204,88]]]],"7-4":[[0,[["blk/b7-4-0.webp",1298,572,90]]],[3,[["blk/b7-4-1.webp",1009,236,90]]],[6,[["blk/b7-4-2.webp",810,235,90]]],[9,[["blk/b7-4-3.webp",851,91,90]]],[10,[["blk/b7-4-4.webp",846,91,90]]]],"7-5":[[0,[["blk/b7-5-0.webp",1381,166,93]]],[1,[["blk/b7-5-1.webp",758,92,93]]],[2,[["blk/b7-5-2.webp",801,308,93]]]],"7-6":[[0,[["blk/b7-6-0.webp",1300,951,94]]],[4,[["blk/b7-6-0.webp",1300,951,94]]],[5,[["blk/b7-6-1.webp",1264,341,94]]],[6,[["blk/b7-6-2.webp",1269,336,94]]],[7,[["blk/b7-6-3.webp",846,90,94]]],[8,[["blk/b7-6-4.webp",1061,559,94]]]],"8-1":[[0,[["blk/b8-1-0.webp",1300,250,96]]],[2,[["blk/b8-1-1.webp",991,207,96]]],[5,[["blk/b8-1-2.webp",649,144,96]]],[7,[["blk/b8-1-3.webp",794,340,96]]],[12,[["blk/b8-1-4.webp",581,275,96]]]],"8-2":[[0,[["blk/b8-2-0.webp",1301,336,96]]],[3,[["blk/b8-2-1.webp",747,275,96]]],[7,[["blk/b8-2-ra1.webp",1299,1910,98]]]],"8-3":[[0,[["blk/b8-3-0.webp",1216,241,97]]],[2,[["blk/b8-3-1.webp",576,128,97]]],[4,[["blk/b8-3-2.webp",849,144,97]]]],"8-4":[[0,[["blk/b8-4-0.webp",1375,802,97]]],[2,[["blk/b8-4-1.webp",1380,517,97]]],[4,[["blk/b8-4-2.webp",1380,517,97]]]],"8-5":[[0,[["blk/b8-5-0.webp",1298,271,100]]],[2,[["blk/b8-5-1.webp",1128,90,100]]],[3,[["blk/b8-5-2.webp",1289,241,100]]],[4,[["blk/b8-5-3.webp",1289,254,100]]],[5,[["blk/b8-5-4.webp",919,80,100]]],[6,[["blk/b8-5-5.webp",864,209,100]]],[9,[["blk/b8-5-rb1.webp",1299,1044,100]]]],"8-6":[[0,[["blk/b8-6-0.webp",1286,485,101]]],[1,[["blk/b8-6-1.webp",981,146,101]]],[3,[["blk/b8-6-2.webp",1188,145,101]]],[5,[["blk/b8-6-3.webp",816,144,101]]],[7,[["blk/b8-6-4.webp",816,144,101]]],[9,[["blk/b8-6-5.webp",984,143,101]]]],"8-7":[[0,[["blk/b8-7-0.webp",1300,308,104]]],[2,[["blk/b8-7-1.webp",1287,80,104]]],[3,[["blk/b8-7-2.webp",514,80,104]]],[4,[["blk/b8-7-3.webp",952,274,104]]],[7,[["blk/b8-7-4.webp",1289,296,104]]],[10,[["blk/b8-7-5.webp",751,145,104]]],[12,[["blk/b8-7-rd1.webp",1300,524,104],["blk/b8-7-rd2.webp",1125,409,105]]]],"8-8":[[0,[["blk/b8-8-0.webp",1330,465,105]]],[1,[["blk/b8-8-1.webp",1380,384,105]]],[5,[["blk/b8-8-2.webp",944,275,105]]],[9,[["blk/b8-8-3.webp",1091,145,105]]],[11,[["blk/b8-8-4.webp",1091,146,105]]],[13,[["blk/b8-8-5.webp",936,146,105]]]],"9-1":[[0,[["blk/b9-1-0.webp",1179,1895,107]]],[5,[["blk/b9-1-0.webp",1179,1895,107]]],[6,[["blk/b9-1-0.webp",1179,1895,107]]]],"9-2":[[0,[["blk/b9-2-0.webp",1296,166,108]]],[1,[["blk/b9-2-1.webp",793,81,108]]],[2,[["blk/b9-2-2.webp",965,144,108]]],[4,[["blk/b9-2-3.webp",885,81,108]]],[5,[["blk/b9-2-4.webp",785,144,108]]],[7,[["blk/b9-2-ra1.webp",1299,1246,108]]]],"9-3":[[0,[["blk/b9-3-0.webp",1329,164,109]]],[1,[["blk/b9-3-1.webp",845,84,109]]],[2,[["blk/b9-3-2.webp",1372,300,109]]],[3,[["blk/b9-3-3.webp",1372,303,109]]],[4,[["blk/b9-3-rb1.webp",1379,1350,109]]]],"9-4":[[0,[["blk/b9-4-0.webp",1300,166,110]]],[1,[["blk/b9-4-1.webp",746,210,110]]],[3,[["blk/b9-4-2.webp",918,145,110]]],[5,[["blk/b9-4-3.webp",930,254,110]]],[7,[["blk/b9-4-4.webp",1291,343,110]]],[9,[["blk/b9-4-rc1.webp",1299,1104,110]]]],"9-5":[[0,[["blk/b9-5-0.webp",1303,389,112]]],[3,[["blk/b9-5-1.webp",781,81,112]]],[4,[["blk/b9-5-2.webp",829,80,112]]],[5,[["blk/b9-5-3.webp",852,79,112]]]],"9-6":[[0,[["blk/b9-6-0.webp",1291,164,113]]],[1,[["blk/b9-6-1.webp",958,81,113]]],[2,[["blk/b9-6-2.webp",986,81,113]]],[3,[["blk/b9-6-3.webp",681,144,113]]],[5,[["blk/b9-6-re1.webp",1368,1430,113]]],[6,[["blk/b9-6-rg1.webp",1381,1239,115]]]],"9-7":[[0,[["blk/b9-7-0.webp",1380,165,115]]],[1,[["blk/b9-7-1.webp",1032,281,115]]],[3,[["blk/b9-7-2.webp",1375,276,115]]]],"9-8":[[0,[["blk/b9-8-0.webp",1301,164,118]]],[1,[["blk/b9-8-1.webp",1040,211,118]]],[2,[["blk/b9-8-2.webp",964,145,118]]],[4,[["blk/b9-8-3.webp",947,82,118]]]],"9-9":[[0,[["blk/b9-9-0.webp",1301,994,118]]],[9,[["blk/b9-9-1.webp",644,145,118]]],[11,[["blk/b9-9-2.webp",1179,331,119]]],[13,[["blk/b9-9-3.webp",1179,301,119]]],[15,[["blk/b9-9-ri1.webp",1300,834,119]]]],"10-1":[[0,[["blk/b10-1-0.webp",1384,945,121]]],[6,[["blk/b10-1-1.webp",708,144,121]]],[8,[["blk/b10-1-2.webp",1372,746,121]]],[11,[["blk/b10-1-ra1.webp",1306,1258,122]]]],"10-2":[[0,[["blk/b10-2-0.webp",1298,162,125]]],[1,[["blk/b10-2-1.webp",730,127,125]]],[3,[["blk/b10-2-2.webp",1011,144,125]]],[5,[["blk/b10-2-rc1.webp",1378,1280,125]]]],"10-3":[[0,[["blk/b10-3-0.webp",1301,323,126]]],[2,[["blk/b10-3-1.webp",1212,243,126]]],[3,[["blk/b10-3-2.webp",736,107,126]]],[4,[["blk/b10-3-3.webp",1235,276,126]]],[6,[["blk/b10-3-4.webp",1234,306,126]]],[8,[["blk/b10-3-rd1.webp",1299,800,126]]]],"11-1":[[0,[["blk/b11-1-0.webp",1301,164,130]]],[1,[["blk/b11-1-1.webp",509,80,130]]],[2,[["blk/b11-1-2.webp",547,80,130]]],[3,[["blk/b11-1-3.webp",412,80,130]]],[4,[["blk/b11-1-4.webp",609,81,130]]],[5,[["blk/b11-1-5.webp",1109,145,130]]],[7,[["blk/b11-1-6.webp",854,142,130]]],[9,[["blk/b11-1-7.webp",471,83,130]]],[10,[["blk/b11-1-ra1.webp",1300,812,130]]]],"11-2":[[0,[["blk/b11-2-0.webp",1228,166,131]]],[1,[["blk/b11-2-1.webp",856,81,131]]],[2,[["blk/b11-2-2.webp",1032,211,131]]]],"11-3":[[0,[["blk/b11-3-0.webp",1326,304,131]]],[2,[["blk/b11-3-1.webp",762,81,131]]],[3,[["blk/b11-3-2.webp",896,270,131]]],[7,[["blk/b11-3-3.webp",772,84,131]]]],"11-4":[[0,[["blk/b11-4-0.webp",1396,166,133]]],[1,[["blk/b11-4-1.webp",806,81,133]]],[2,[["blk/b11-4-2.webp",693,145,133]]],[4,[["blk/b11-4-3.webp",699,81,133]]],[5,[["blk/b11-4-4.webp",659,145,133]]],[7,[["blk/b11-4-5.webp",525,82,133]]]],"11-5":[[0,[["blk/b11-5-0.webp",1356,163,133]]],[1,[["blk/b11-5-1.webp",828,145,133]]],[3,[["blk/b11-5-2.webp",759,210,133]]],[6,[["blk/b11-5-3.webp",940,80,133]]],[7,[["blk/b11-5-4.webp",704,84,133]]]],"11-6":[[0,[["blk/b11-6-0.webp",994,302,135]]],[2,[["blk/b11-6-1.webp",680,81,135]]],[3,[["blk/b11-6-2.webp",660,80,135]]],[4,[["blk/b11-6-3.webp",1020,271,135]]],[6,[["blk/b11-6-4.webp",719,84,135]]]],"11-7":[[0,[["blk/b11-7-0.webp",1304,334,136]]],[3,[["blk/b11-7-1.webp",590,144,136]]],[5,[["blk/b11-7-2.webp",682,145,136]]],[7,[["blk/b11-7-3.webp",615,144,136]]],[9,[["blk/b11-7-rc1.webp",1301,981,136]]]],"12-1":[[0,[["blk/b12-1-0.webp",1296,167,140]]],[1,[["blk/b12-1-1.webp",713,144,140]]],[3,[["blk/b12-1-2.webp",852,84,140]]],[4,[["blk/b12-1-3.webp",1285,414,140]]]],"12-2":[[0,[["blk/b12-2-0.webp",1288,460,140]]],[3,[["blk/b12-2-1.webp",447,81,140]]],[4,[["blk/b12-2-2.webp",480,79,140]]],[5,[["blk/b12-2-3.webp",1285,546,140]]]],"12-3":[[0,[["blk/b12-3-0.webp",1386,1145,141]]],[4,[["blk/b12-3-0.webp",1386,1145,141]]],[8,[["blk/b12-3-0.webp",1386,1145,141]]],[10,[["blk/b12-3-1.webp",1292,935,141]]]],"12-4":[[0,[["blk/b12-4-0.webp",1297,439,144]]],[2,[["blk/b12-4-1.webp",1114,373,144]]],[4,[["blk/b12-4-2.webp",1119,373,144]]],[6,[["blk/b12-4-3.webp",581,145,144]]],[7,[["blk/b12-4-4.webp",1194,229,144]]],[8,[["blk/b12-4-rb1.webp",1301,905,144]]],[9,[["blk/b12-4-rc1.webp",1301,924,145]]]],"12-5":[[0,[["blk/b12-5-0.webp",1000,166,145]]],[1,[["blk/b12-5-1.webp",747,80,145]]],[2,[["blk/b12-5-2.webp",716,81,145]]],[3,[["blk/b12-5-3.webp",1280,544,145]]]],"13-1":[[0,[["blk/b13-1-0.webp",1512,496,149]]],[1,[["blk/b13-1-1.webp",1512,235,149]]],[3,[["blk/b13-1-3.webp",1512,185,149]]],[5,[["blk/b13-1-5.webp",1512,84,149]]],[6,[["blk/b13-1-6.webp",1512,882,149]]]],"13-2":[[0,[["blk/b13-2-0.webp",1537,487,150]]],[3,[["blk/b13-2-3_0.webp",1537,218,150],["blk/b13-2-3_1.webp",1537,319,150]]],[7,[["blk/b13-2-7_0.webp",1537,218,150],["blk/b13-2-7_1.webp",1537,185,150]]],[9,[["blk/b13-2-9.webp",1537,260,150]]]],"13-3":[[0,[["blk/b13-3-0.webp",1512,134,151]]],[1,[["blk/b13-3-1.webp",1512,176,151]]],[3,[["blk/b13-3-3.webp",1512,151,151]]],[5,[["blk/b13-3-5.webp",1512,151,151]]],[7,[["blk/b13-3-7.webp",1512,160,151]]],[9,[["blk/b13-3-9.webp",1512,76,151]]],[10,[["blk/b13-3-10.webp",1512,151,151]]],[12,[["blk/b13-3-12.webp",1512,613,151]]]],"13-4":[[0,[["blk/b13-4-0.webp",1537,403,152]]],[2,[["blk/b13-4-2.webp",1537,235,152]]],[5,[["blk/b13-4-5.webp",1537,227,152]]],[8,[["blk/b13-4-8.webp",1537,328,152]]],[12,[["blk/b13-4-12.webp",1537,739,152]]]],"13-5":[[0,[["blk/b13-5-0.webp",1537,445,154]]],[2,[["blk/b13-5-2.webp",1537,101,154]]],[3,[["blk/b13-5-3.webp",1537,76,154]]],[4,[["blk/b13-5-4.webp",1537,84,154]]],[5,[["blk/b13-5-5.webp",1537,76,154]]],[6,[["blk/b13-5-6.webp",1537,134,154]]]],"13-6":[[0,[["blk/b13-6-0.webp",1537,487,154]]],[2,[["blk/b13-6-2.webp",1537,92,154]]],[3,[["blk/b13-6-3.webp",1537,160,154]]],[5,[["blk/b13-6-5.webp",1537,336,154]]],[9,[["blk/b13-6-9.webp",1512,1117,155]]]],"14-1":[[0,[["blk/b14-1-0.webp",1512,714,159]]],[4,[["blk/b14-1-4.webp",1512,193,159]]],[6,[["blk/b14-1-6.webp",1512,193,159]]],[8,[["blk/b14-1-8.webp",1512,302,159]]],[10,[["blk/b14-1-10.webp",1512,302,159]]],[12,[["blk/b14-1-12.webp",1512,185,159]]]],"14-2":[[0,[["blk/b14-2-0.webp",1537,420,160]]],[1,[["blk/b14-2-1.webp",1537,101,160]]],[2,[["blk/b14-2-2.webp",1537,176,160]]],[4,[["blk/b14-2-4.webp",1537,202,160]]],[7,[["blk/b14-2-7.webp",1537,143,160]]],[9,[["blk/b14-2-9.webp",1537,84,160]]],[10,[["blk/b14-2-10.webp",1537,101,160]]],[11,[["blk/b14-2-11.webp",1537,722,160]]],[13,[["blk/b14-2-13.webp",1512,622,161]]]],"14-3":[[0,[["blk/b14-3-0.webp",1537,386,162]]],[1,[["blk/b14-3-1.webp",1537,269,162]]],[3,[["blk/b14-3-3.webp",1537,168,162]]],[5,[["blk/b14-3-5.webp",1537,823,162]]]],"14-4":[[0,[["blk/b14-4-0.webp",1537,151,164]]],[1,[["blk/b14-4-1.webp",1537,210,164]]],[3,[["blk/b14-4-3.webp",1537,151,164]]],[5,[["blk/b14-4-5.webp",1537,302,164]]],[6,[["blk/b14-4-6.webp",1537,588,164]]],[8,[["blk/b14-4-8.webp",1512,613,165]]]],"15-1":[[0,[["blk/b15-1-0.webp",1537,302,166]]],[2,[["blk/b15-1-2.webp",1537,286,166]]],[4,[["blk/b15-1-4.webp",1512,202,167]]],[6,[["blk/b15-1-6.webp",1512,437,167]]],[10,[["blk/b15-1-10.webp",1512,252,167]]]],"15-2":[[0,[["blk/b15-2-0.webp",1512,252,167]]],[2,[["blk/b15-2-2.webp",1512,185,167]]],[4,[["blk/b15-2-4.webp",1512,235,167]]],[6,[["blk/b15-2-6.webp",1512,185,167]]],[8,[["blk/b15-2-8.webp",1512,353,167]]],[10,[["blk/b15-2-10.webp",1537,1193,168]]]],"15-3":[[0,[["blk/b15-3-0.webp",1537,302,170]]],[2,[["blk/b15-3-2.webp",1537,168,170]]],[4,[["blk/b15-3-4.webp",1537,319,170]]]],"15-4":[[0,[["blk/b15-4-0.webp",1512,235,171]]],[1,[["blk/b15-4-1.webp",1512,168,171]]],[3,[["blk/b15-4-3.webp",1512,160,171]]],[5,[["blk/b15-4-5.webp",1512,118,171]]]],"15-5":[[0,[["blk/b15-5-0.webp",1537,302,172]]],[2,[["blk/b15-5-2.webp",1537,185,172]]],[4,[["blk/b15-5-4.webp",1537,202,172]]],[6,[["blk/b15-5-6.webp",1537,168,172]]],[8,[["blk/b15-5-8.webp",1537,269,172]]],[11,[["blk/b15-5-11.webp",1537,168,172]]],[13,[["blk/b15-5-13.webp",1537,168,172]]],[14,[["blk/b15-5-14.webp",1512,1193,173]]]],"15-6":[[0,[["blk/b15-6-0.webp",1537,218,176]]],[1,[["blk/b15-6-1.webp",1537,101,176]]],[2,[["blk/b15-6-2.webp",1537,252,176]]],[4,[["blk/b15-6-4.webp",1512,454,177]]],[7,[["blk/b15-6-7.webp",1512,529,177]]]],"15-7":[[0,[["blk/b15-7-0.webp",1512,202,177]]],[1,[["blk/b15-7-1.webp",1512,218,177]]],[2,[["blk/b15-7-2.webp",1512,168,177]]],[4,[["blk/b15-7-4.webp",1512,168,177]]]],"15-8":[[0,[["blk/b15-8-0.webp",1537,252,178]]],[1,[["blk/b15-8-1.webp",1537,193,178]]],[2,[["blk/b15-8-2.webp",1537,168,178]]],[4,[["blk/b15-8-4.webp",1537,437,178]]],[5,[["blk/b15-8-5.webp",1537,1075,178]]]],"16-1":[[0,[["blk/b16-1-0.webp",1537,538,180]]],[1,[["blk/b16-1-1.webp",1537,277,180]]],[3,[["blk/b16-1-3.webp",1537,269,180]]],[5,[["blk/b16-1-5.webp",1537,286,180]]],[7,[["blk/b16-1-7.webp",1537,269,180]]],[9,[["blk/b16-1-9.webp",1537,260,180]]],[11,[["blk/b16-1-11.webp",1537,353,180]]],[14,[["blk/b16-1-14.webp",1512,773,181]]],[16,[["blk/b16-1-16.webp",1537,689,182]]]],"16-2":[[0,[["blk/b16-2-0.webp",1537,403,182]]],[3,[["blk/b16-2-3.webp",1537,286,182]]],[5,[["blk/b16-2-5.webp",1512,235,183]]],[7,[["blk/b16-2-7.webp",1512,454,183]]],[11,[["blk/b16-2-11.webp",1512,655,183]]]],"16-3":[[0,[["blk/b16-3-0.webp",1512,588,185]]],[1,[["blk/b16-3-1.webp",1512,151,185]]],[2,[["blk/b16-3-2.webp",1512,168,185]]],[4,[["blk/b16-3-4.webp",1512,588,185]]],[10,[["blk/b16-3-10.webp",1512,202,185]]],[12,[["blk/b16-3-12.webp",1512,554,185]]]],"16-4":[[0,[["blk/b16-4-0.webp",1537,269,186]]],[1,[["blk/b16-4-1.webp",1537,252,186]]],[3,[["blk/b16-4-3.webp",1537,319,186]]],[4,[["blk/b16-4-4.webp",1537,151,186]]],[5,[["blk/b16-4-5.webp",1537,319,186]]]],"16-5":[[0,[["blk/b16-5-0.webp",1537,252,186]]],[1,[["blk/b16-5-1.webp",1537,185,186]]],[3,[["blk/b16-5-3.webp",1537,302,186]]],[6,[["blk/b16-5-6.webp",1537,269,186]]]],"16-6":[[0,[["blk/b16-6-0.webp",1537,504,188]]],[1,[["blk/b16-6-1.webp",1537,101,188]]],[2,[["blk/b16-6-2.webp",1537,151,188]]],[4,[["blk/b16-6-4.webp",1537,286,188]]],[8,[["blk/b16-6-8.webp",1537,168,188]]],[10,[["blk/b16-6-10.webp",1537,168,188]]]],"16-7":[[0,[["blk/b16-7-0.webp",1537,353,188]]],[2,[["blk/b16-7-2.webp",1537,151,188]]],[3,[["blk/b16-7-3.webp",1537,202,188]]],[4,[["blk/b16-7-4.webp",1537,235,188]]]],"16-a":[[0,[["blk/b16-a-0.webp",1512,2386,189]]]],"16-b":[[0,[["blk/b16-b-0.webp",1537,2386,190]]]],"16-c":[[0,[["blk/b16-c-0.webp",1512,2386,191]]]],"17-1":[[0,[["blk/b17-1-0.webp",1537,235,194]]],[1,[["blk/b17-1-1.webp",1537,538,194]]],[5,[["blk/b17-1-5.webp",1537,202,194]]],[7,[["blk/b17-1-7.webp",1537,202,194]]],[9,[["blk/b17-1-9.webp",1537,134,194]]],[10,[["blk/b17-1-10.webp",1537,168,194]]],[12,[["blk/b17-1-12.webp",1537,202,194]]],[14,[["blk/b17-1-14.webp",1537,134,194]]],[16,[["blk/b17-1-16.webp",1537,202,194]]],[18,[["blk/b17-1-18.webp",1512,336,195]]],[20,[["blk/b17-1-20.webp",1512,101,195]]],[21,[["blk/b17-1-21.webp",1512,202,195]]],[23,[["blk/b17-1-23.webp",1512,370,195]]]],"17-2":[[0,[["blk/b17-2-0.webp",1537,202,196]]],[1,[["blk/b17-2-1.webp",1537,302,196]]],[2,[["blk/b17-2-2.webp",1537,470,196]]],[3,[["blk/b17-2-3.webp",1537,1008,196]]],[4,[["blk/b17-2-4.webp",1537,269,196]]],[6,[["blk/b17-2-6.webp",1512,571,197]]],[7,[["blk/b17-2-7.webp",1512,739,197]]],[8,[["blk/b17-2-8.webp",1512,235,197]]]],"17-3":[[0,[["blk/b17-3-0.webp",1512,403,199]]],[3,[["blk/b17-3-3.webp",1512,202,199]]],[5,[["blk/b17-3-5.webp",1512,168,199]]],[7,[["blk/b17-3-7.webp",1512,134,199]]],[8,[["blk/b17-3-8.webp",1512,437,199]]],[11,[["blk/b17-3-11.webp",1537,1142,200]]]],"17-4":[[0,[["blk/b17-4-0.webp",1537,235,200]]],[1,[["blk/b17-4-1.webp",1537,302,200]]],[2,[["blk/b17-4-2.webp",1537,202,200]]],[4,[["blk/b17-4-4.webp",1537,84,200]]],[5,[["blk/b17-4-5.webp",1537,336,200]]]],"17-5":[[0,[["blk/b17-5-0.webp",1537,302,202]]],[2,[["blk/b17-5-2.webp",1537,202,202]]],[4,[["blk/b17-5-4.webp",1537,134,202]]],[6,[["blk/b17-5-6.webp",1537,168,202]]],[8,[["blk/b17-5-8.webp",1537,269,202]]],[11,[["blk/b17-5-11.webp",1537,235,202]]],[13,[["blk/b17-5-13.webp",1537,403,202]]],[15,[["blk/b17-5-15.webp",1512,336,203]]]],"17-6":[[0,[["blk/b17-6-0.webp",1512,302,203]]],[2,[["blk/b17-6-2.webp",1512,202,203]]],[4,[["blk/b17-6-4.webp",1512,101,203]]],[5,[["blk/b17-6-5.webp",1512,302,203]]],[6,[["blk/b17-6-6.webp",1512,403,203]]]]};
